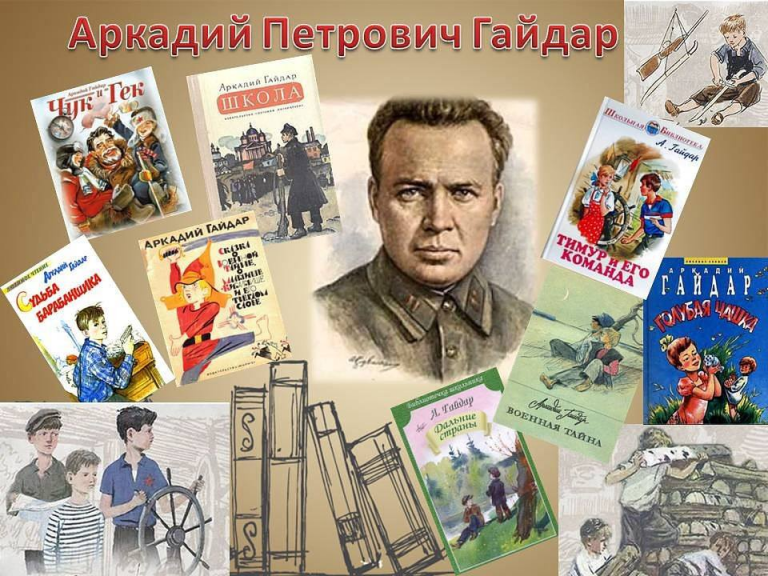
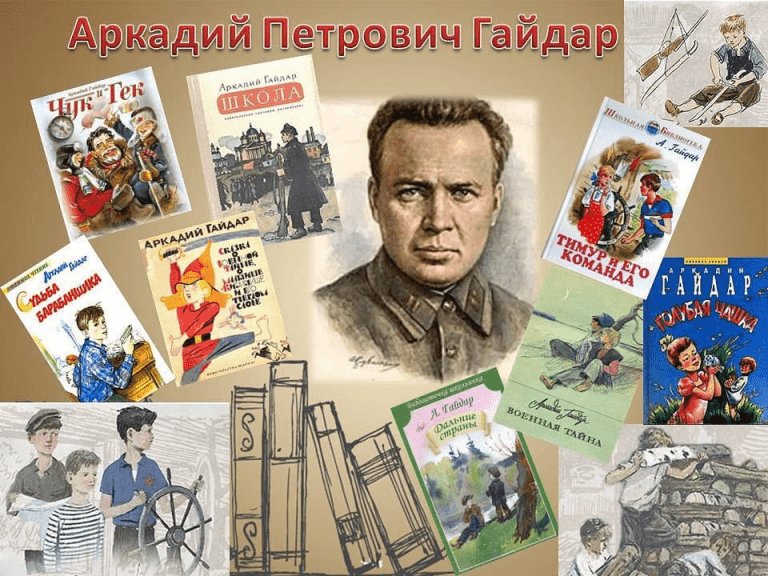
optimize png images

diff --git a/nuxt.config.js b/nuxt.config.js
@@ -1,3 +1,7 @@
+// import imageminWebp from 'imagemin-webp'
+// let ImageminPlugin = require('imagemin-webpack-plugin').default
+const imageminPngquant = require('imagemin-pngquant');
+
 export default {
   mode: 'universal',
   /*
@@ -30,7 +34,12 @@ export default {
   ** Plugins to load before mounting the App
   */
   plugins: [
-    '@/plugins/element-ui'
+    '@/plugins/element-ui',
+    // new ImageminPlugin({
+    //   pngquant: {
+    //     quality: '35-50',
+    //   }
+    // })
   ],
   /*
   ** Nuxt.js dev-modules
@@ -43,13 +52,11 @@ export default {
   ** Nuxt.js modules
   */
   modules: [
-    // Doc: https://axios.nuxtjs.org/usage
-    [
-      "nuxt-imagemin",
-      {
-        optipng: { optimizationLevel: 9 }
-      }
-    ]
+    ['nuxt-imagemin', {
+      plugins: [
+        imageminPngquant({quality: [0.3, 0.5]})
+      ]
+    }]
   ],
   /*
   ** Axios module configuration
